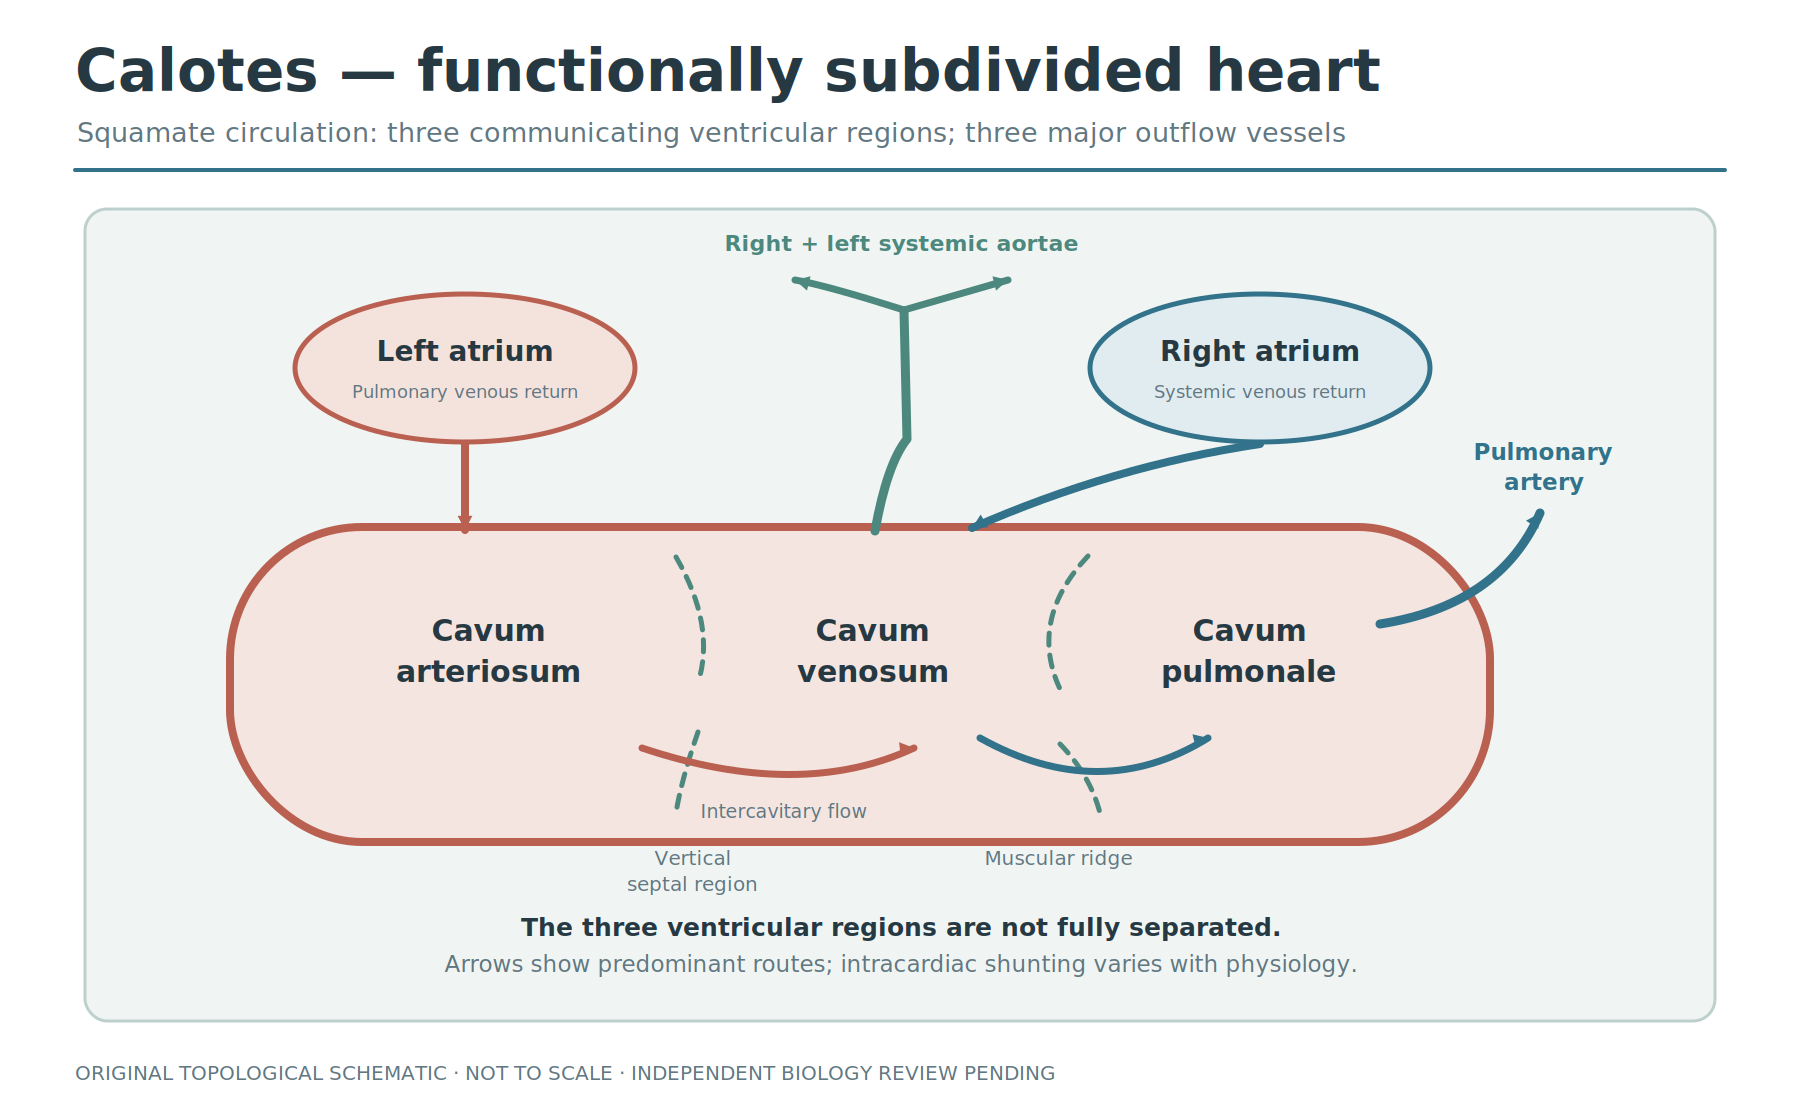
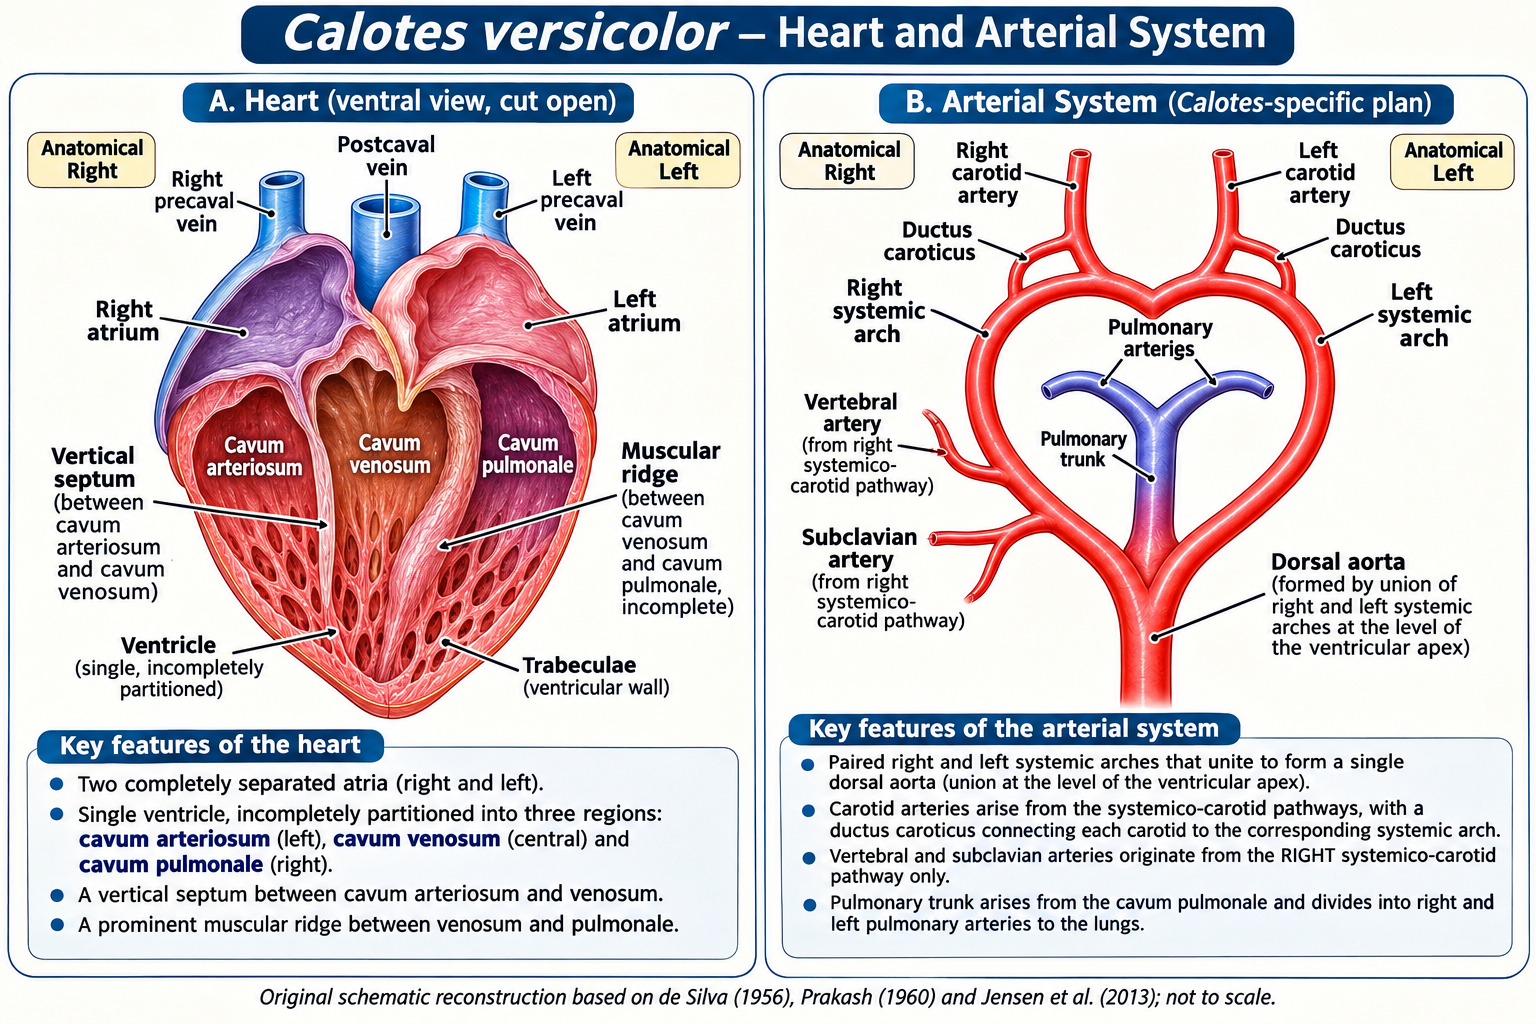
feat(qa): install owner-selected Calotes heart PNG with provisional scientific safeguards

diff --git a/app/src/androidTest/java/in/gasc/zoology/chordata/ReaderNavigationTest.kt b/app/src/androidTest/java/in/gasc/zoology/chordata/ReaderNavigationTest.kt
@@ -32,7 +32,7 @@ import org.junit.Test
 
 class ReaderNavigationTest {
 
-    @Test fun oneSymbolicPlateRemainsWithheldAndSixSourcedPlatesAreAvailable() {
+    @Test fun ownerApprovedProvisionalHeartAndSourcedPlatesAreAvailable() {
         val context = InstrumentationRegistry.getInstrumentation().targetContext
         val raw = context.assets.open("pencil_plates/manifest.json")
             .bufferedReader(Charsets.UTF_8).use { it.readText() }
@@ -40,12 +40,16 @@ class ReaderNavigationTest {
         val entries = (0 until variants.length())
             .map { variants.getJSONObject(it) }
             .associateBy { it.getString("diagramId") to it.getString("lang") }
-        val withheld = listOf(
-            "u4-calotes-arterial-system",
-        )
-        for (id in withheld) for (lang in ReadingLanguage.entries) {
-            org.junit.Assert.assertTrue("Unusable figure must be suppressed: $id $lang",
-                selectedPlateNeedsReplacement(entries, id, lang))
+        // Owner accepts minor image imperfections only; not independent anatomy approval.
+        for (lang in ReadingLanguage.entries) {
+            val heart = requireNotNull(selectProvisionalPlate(entries,
+                "u4-calotes-arterial-system", lang))
+            org.junit.Assert.assertFalse(selectedPlateNeedsReplacement(entries,
+                "u4-calotes-arterial-system", lang))
+            org.junit.Assert.assertEquals("AI_RECONSTRUCTION_QA_PROVISIONAL_ACCEPT_MINOR_COSMETIC_ERRORS", heart.getString("visualReview"))
[1 lines of base64/hex data omitted]
+            org.junit.Assert.assertTrue(heart.getString("reviewStatus").startsWith("PROVISIONAL_"))
+            org.junit.Assert.assertTrue(heart.getString("editorialCaution").contains("RIGHT atrium"))
         }
         val sourced = listOf(
             "u4-snakes-india-big-four-identification",

diff --git a/scripts/audit_pencil_coverage.py b/scripts/audit_pencil_coverage.py
@@ -48,9 +48,24 @@ assert not any(f.get('scientificRiskHold') and f.get('aiQaIntegrationDecision')=
 # Pedagogical utility is a separate gate from PNG integrity. These user-
 # rejected shapes remain in source control for provenance but cannot be used
 # as anatomy/species teaching images in either language.
-remaining_noninstructional_ids = {
-    'u4-calotes-arterial-system',
-}
+remaining_noninstructional_ids = set()
+calotes_heart = next(x for x in fs if x['diagramId'] == 'u4-calotes-arterial-system')
+assert calotes_heart['lang'] == 'en'
[1 lines of base64/hex data omitted]
+assert calotes_heart['size'] == 2285032
+assert calotes_heart['visualReview'] == 'AI_RECONSTRUCTION_QA_PROVISIONAL_ACCEPT_MINOR_COSMETIC_ERRORS'
+assert calotes_heart['pedagogicStatus'] == 'REPLACED_WITH_AI_ASSISTED_ANATOMICAL_SCHEMATIC_QA_PENDING_2026-11-12'
+assert calotes_heart['reviewStatus'].startswith('PROVISIONAL_')
+assert calotes_heart['independentBiologyReview'] == 'PENDING'
+assert calotes_heart['independentTamilReview'] == 'PENDING'
+assert calotes_heart.get('aiGenerated') is True and not calotes_heart.get('sourceUrl')
+assert not calotes_heart.get('svgMaster'), 'Old symbolic SVG is not a source for the new AI plate'
+assert all(calotes_heart.get(k) for k in ('retiredSchematicPng','retiredSchematicSvg', 'retiredSchematicSha256','retiredSchematicSvgSha256'))
+for path_key, sha_key in (('retiredSchematicPng','retiredSchematicSha256'), ('retiredSchematicSvg','retiredSchematicSvgSha256')):
+    retired = ROOT / calotes_heart[path_key]
+    assert retired.is_file() and hashlib.sha256(retired.read_bytes()).hexdigest() == calotes_heart[sha_key], ('original Calotes source not preserved', retired)
+assert 'RIGHT atrium' in calotes_heart['editorialCaution'] and 'LEFT atrium' in calotes_heart['editorialCaution']
[1 lines of base64/hex data omitted]
 verified_source_replacement_ids = {
     'u4-snakes-india-big-four-identification',
     'u5-flight-adaptations-flight-muscles',
@@ -60,7 +75,7 @@ rejected = [x for x in fs if x.get('pedagogicStatus') ==
             'WITHHELD_BIOLOGICALLY_NON_INSTRUCTIVE_2026-11-12']
 assert {x['diagramId'] for x in rejected} == remaining_noninstructional_ids, (
     'Only the rejected Calotes heart diagram may remain withheld')
-assert len(rejected) == 1
+assert len(rejected) == 0
 assert all(x.get('visualReview') == 'USER_REJECTED_REPLACEMENT_REQUIRED'
            and x.get('pedagogicReason') and x.get('reviewStatus', '').startswith('PROVISIONAL_')
            for x in rejected), 'Uncorrected symbolic diagrams must remain withheld'
@@ -142,7 +157,7 @@ for oldpath, oldhash in (
     assert hashlib.sha256(original.read_bytes()).hexdigest() == marine[oldhash]
[1 lines of base64/hex data omitted]
 assert all(word in marine['keyEn'] for word in ('Cetacea', 'Sirenia', 'Pinnipedia', 'Mustelidae', 'NOT one taxonomic order'))
-print('PASS: Calotes heart alone withheld; sourced aquatic-mammal photography, taxonomy and archived original verified')
+print('PASS: Provisional Calotes anatomical reconstruction, sourced aquatic-mammal photos, and retired source hashes verified')
 
 # Rendering shows English-labelled plates in English and Tamil, with shared fallback.
 for id,languages in byid.items():

diff --git a/scripts/check_textbook_plates.py b/scripts/check_textbook_plates.py
@@ -34,6 +34,7 @@ assert "Intercaval flow" not in calotes_text, "Calotes inter-cavity label regres
 assert calotes_text.count("Intercavitary flow") == 1, "Expected corrected Calotes inter-cavity label missing"
 calotes_manifest = json.loads((root / "pencil_plates/manifest.json").read_text(encoding="utf-8"))
 calotes_entry = next(f for f in calotes_manifest["figures"] if f["diagramId"] == "u4-calotes-arterial-system")
-assert calotes_entry["svgSha256"] == hashlib.sha256(calotes_master.read_bytes()).hexdigest(), "Calotes SVG/manifest mismatch"
+assert calotes_entry["retiredSchematicSvgSha256"] == hashlib.sha256(calotes_master.read_bytes()).hexdigest(), "Retired Calotes SVG/manifest mismatch"
+assert not calotes_entry.get("svgMaster"), "Retired schematic must not be active figure master"
 assert calotes_entry["reviewStatus"].startswith("PROVISIONAL_"), "Calotes image incorrectly marked academically approved"
-print("PASS: Calotes inter-cavity label correct; image SHA and review status guarded")
+print("PASS: original Calotes SVG preserved, replacement PNG manifest and review status guarded")

diff --git a/docs/CHORDATA_PEDAGOGIC_IMAGE_TRIAGE_20261112.md b/docs/CHORDATA_PEDAGOGIC_IMAGE_TRIAGE_20261112.md
@@ -192,3 +192,26 @@ Calotes heart replacement still absent; no release sign-off asserted.
   historic SHA-256. Independent zoological/Tamil review and phone UI
   screenshots are still needed; source presence does not imply app-store
   readiness or academic certification.
+
+## Provisional original Calotes heart artwork installed for QA (12 November 2026)
+
+The owner subsequently allowed **minor cosmetic errors** and selected the full-resolution
+original AI-assisted `Calotes versicolor — Heart and Arterial System` image for classroom QA.
[1 lines of base64/hex data omitted]
+installed at the exact registered lesson ID `u4-calotes-arterial-system` (Unit IV,
+page 4) on this QA branch. The previous withheld schematic PNG and original SVG
+are retained under `docs/retired_noninstructional_png/` and `docs/original_plate_svg/`.
+
+**Scientific limitation:** This is an AI-generated *schematic*, not a verified dissection.
+Two atria, three ventricular cava, paired systemic arches, common dorsal aorta and
+pulmonary outflow are depicted. A potentially misleading precaval/postcaval arrangement
+in the heart panel means students MUST be told that systemic veins drain through the
+sinus venosus to the **right atrium**, whereas pulmonary veins drain to the **left atrium**.
+Therefore it is marked `AI_RECONSTRUCTION_QA_PROVISIONAL_ACCEPT_MINOR_COSMETIC_ERRORS`, not an academically accepted anatomical plate.
+It must not be repurposed to teach definitive venous inlet topology. Reference literature:
+de Silva (1956) for species-specific arterial system; Jensen et al. (2013) for comparative
+squamate cardiac chamber anatomy. References are not credited as reproduced artwork.
+
+**QA discipline:** The manifest records exact byte hash and AI origin, both bilingual
+reader modes use the same English-labelled PNG with separate Tamil explanatory text,
+and independent zoological/Tamil sign-off remains pending. App-store release is not authorised.
